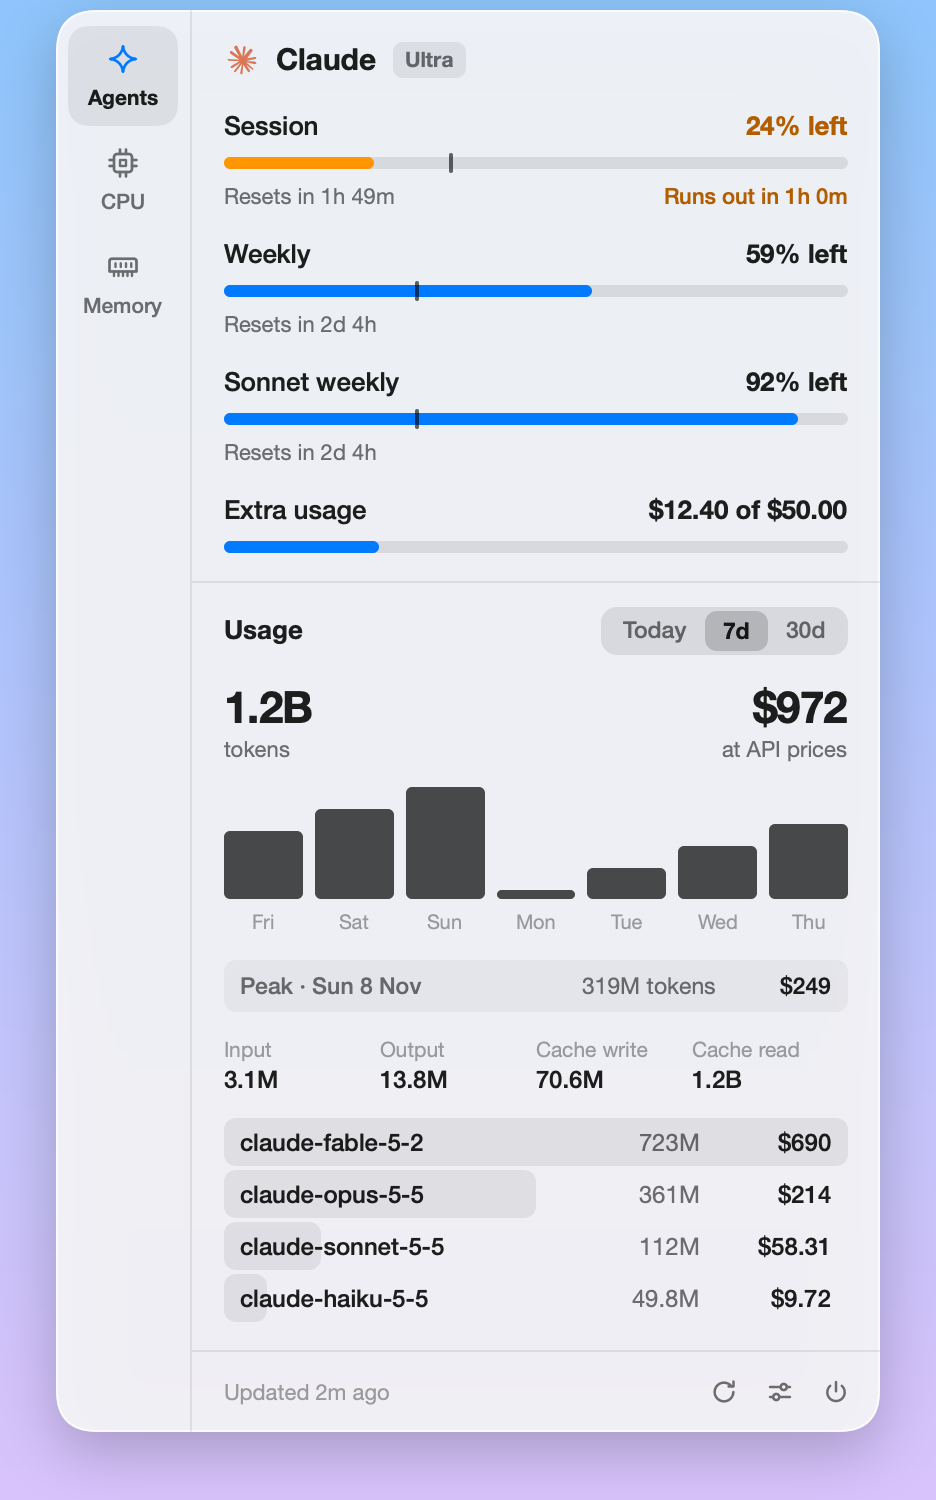
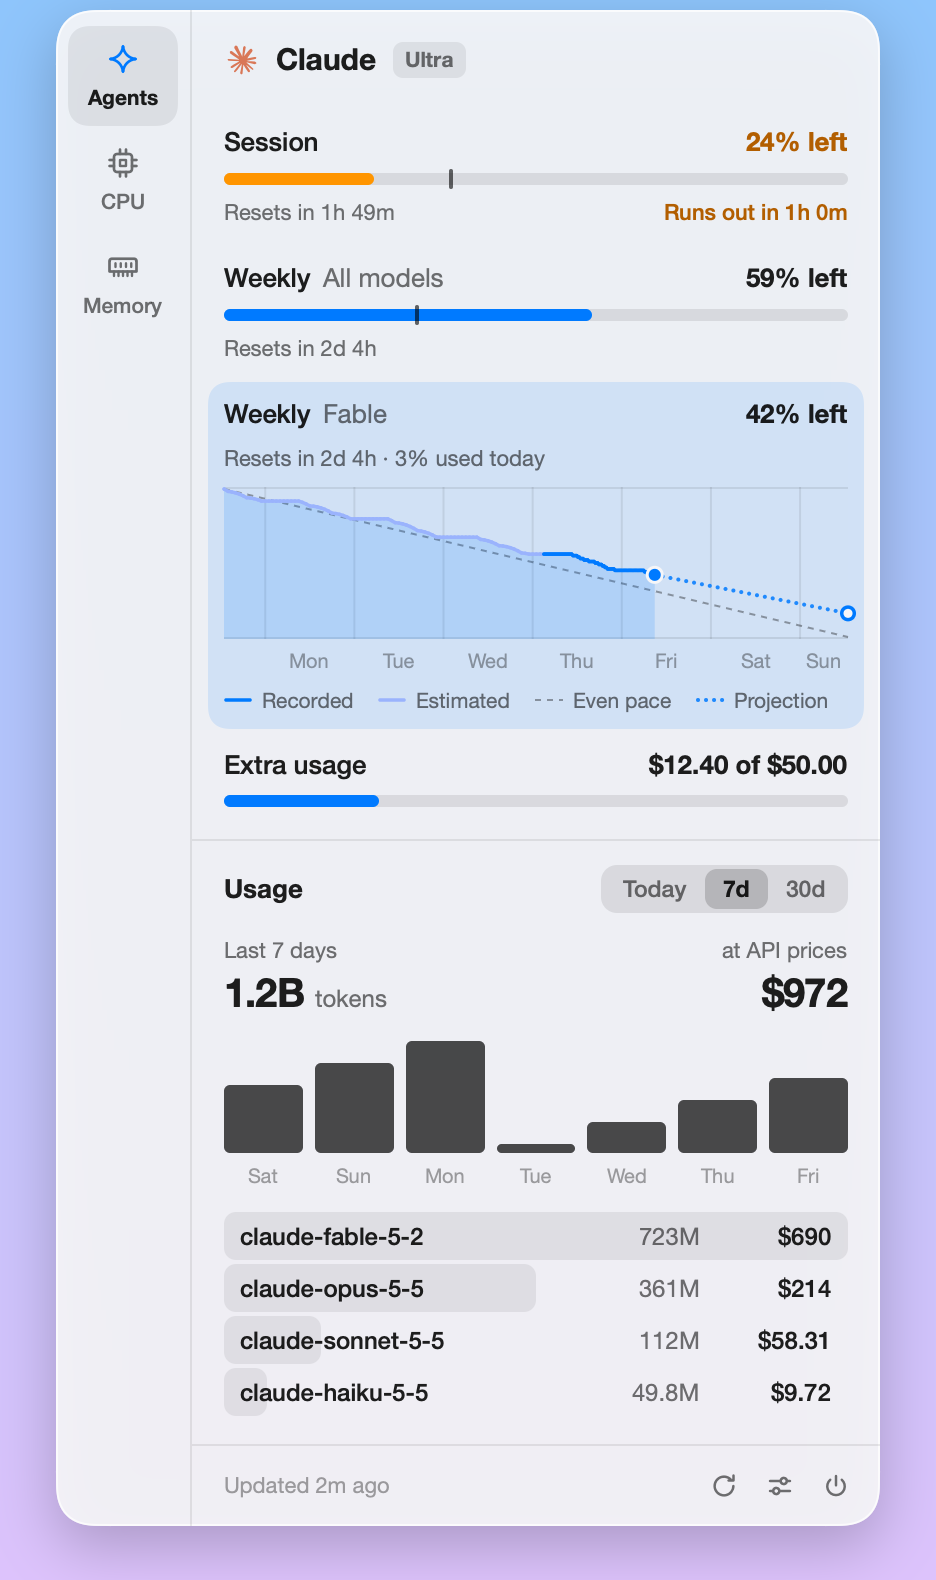
docs: describe the limit chart and refresh the panel images

diff --git a/README.md b/README.md
@@ -30,7 +30,7 @@
 
 <table>
   <tr>
-    <td width="50%"><img src="docs/images/panel-dark.png" alt="The panel in dark mode on its Agents tab: a meter for each limit with its reset time, then tokens, cost, a chart and a row per model for the last 7 days, with a rail of tabs on the left"></td>
+    <td width="50%"><img src="docs/images/panel-dark.png" alt="The panel in dark mode on its Agents tab: a meter for each limit with its reset time, Fable's weekly limit opened up to a chart of how it fell across the week beside an even pace and a projection, then tokens, cost, a chart and a row per model for the last 7 days, with a rail of tabs on the left"></td>
     <td width="50%"><img src="docs/images/panel-light.png" alt="The same panel in light mode"></td>
   </tr>
 </table>
@@ -64,7 +64,7 @@ The panel has a tab for each thing it reads, in a rail down its left side: **Age
 
 <table>
   <tr>
-    <td width="50%"><img src="docs/images/low.png" alt="The Agents tab with a session at 7% left in red and a weekly limit at 26% left in orange, each saying when it runs out"><br><b>Running low</b>: orange at 30% left, red at 10%, and when the pace so far uses a limit up before it resets, the row says when.</td>
+    <td width="50%"><img src="docs/images/low.png" alt="The Agents tab with a session at 7% left in red and a weekly limit at 26% left in orange, each saying when it runs out, and the weekly limit's chart projecting where it runs out"><br><b>Running low</b>: orange at 30% left, red at 10%, and when the pace so far uses a limit up before it resets, the row says when.</td>
     <td width="50%"><img src="docs/images/today.png" alt="The Agents tab showing today's usage by the hour"><br><b>Usage</b> for today by the hour, and for 7 and 30 days by the day.</td>
   </tr>
 </table>
@@ -74,9 +74,8 @@ The panel has a tab for each thing it reads, in a rail down its left side: **Age
 **In the panel**, opened with a click:
 
 - Every limit the plan has (session, weekly, per-model weekly, extra usage) with a meter, the time to its reset, and a tick where an even pace would be.
-- Usage for today, 7 days and 30 days: tokens, what they would have cost at API prices, a chart, the split into input, output and cache, and a row per model.
-
-The line under the chart reads the busiest hour or day, or the one under the pointer. Click a limit to switch every percentage between left and used. The panel's foot has Refresh, Settings and Quit; the settings (what the menu bar shows, model limits, left or used, how the CPU and memory show, Launch at Login) open in the panel. A secondary click on the menu bar item has the same as a menu.
+- One limit opened up to its history in place of its meter: how it fell from 100% day by day to what is left now, an even pace to compare against, and where the pace so far leads, with a ring where it runs out or resets. The line over the chart says when it resets and what was used today, or under the pointer, what was left then and what was used that day. A week's window reads by the day, the session's by the hour. Click another limit to open it instead; the panel starts on the weekly limit with the least left.
+- Usage for today, 7 days and 30 days: tokens, what they would have cost at API prices, a chart and a row per model. The totals read the bar under the pointer while it is on the chart, and hold the split into input, output and cache in their tooltip. The panel's foot has Refresh, Settings and Quit; the settings (what the menu bar shows, model limits, left or used, how the CPU and memory show, Launch at Login) open in the panel. A secondary click on the menu bar item has the same as a menu.
 
 ### This Mac
 
@@ -102,13 +101,14 @@ The line under the chart reads the busiest hour or day, or the one under the poi
 | ⌘1, ⌘2, ⌘3 | Agents, CPU, Memory |
 | ⌘R | Refresh the limits now |
 | ⌘, | Settings |
-| esc | Close the panel |
+| esc | Back from Settings, else close the panel |
 | ⌘Q | Quit |
 
 ## Where the numbers come from
 
 - **Limits** are what Anthropic reports for your login (`api.anthropic.com/api/oauth/usage`), the same numbers as Claude Code's `/usage`. They refresh every 5 minutes and when the panel opens, never more often than once a minute: the endpoint allows about 30 requests an hour, shared with Claude Code.
 - **The login** is Claude Code's, read from the Keychain item it keeps (or `~/.claude/.credentials.json`). It is only ever read. Nerda Bar never renews or rewrites it, because renewing it behind Claude Code's back can sign the CLI out; when the login has expired the panel says so, and running `claude` once renews it.
+- **The limit chart** draws what each refresh read, kept for 8 days in `history.json`. Where there are no readings (before Nerda Bar's first run, or while the Mac slept), what the limit gained across the gap is spread over its hours by what this Mac's messages to the models it counts would have cost at API prices, and drawn paler as an estimate. Use on another device shows up in the readings but not in this Mac's logs: across a gap with no activity here, the chart draws a straight line.
 - **Usage** is counted from Claude Code's own session logs under `~/.claude/projects`. Each message counts once, however many times the logs repeat it, by your local calendar day. Only what the logs gained since the last read is read again.
 - **Prices** are the API prices from [models.dev](https://models.dev), fetched once a day and kept in `prices.json`. A model without a listed price shows `—` and the total a `+`. Fast mode's premium is not priced.
 - **CPU and memory** come from macOS itself, as Activity Monitor reads them: each core's ticks (`host_processor_info`), the memory's page counts (`host_statistics64`), memory pressure and swap (`sysctl`). None of it needs a password. They are read every second while the panel shows them, every 2 seconds while the menu bar does, every 20 seconds while only the panel's history needs them, and not at all with both tabs and both items off. The history is kept in memory, so it starts again when Nerda Bar does.
@@ -168,6 +168,7 @@ target/release/nerda-bar --list-scenes
 - `src/main.rs`: wiring and window options
 - `src/ui.rs`: state, tabs, keys, open and close
 - `src/view.rs`: the panel: its rail, the Agents tab, the settings
+- `src/burn.rs`, `src/burn_view.rs`: each limit's history and the chart of its window
 - `src/system_view.rs`: the CPU and Memory tabs
 - `src/status_item.rs`: the menu bar items, their glyphs and their menu (AppKit)
 - `src/worker.rs`: the background thread and its schedule
